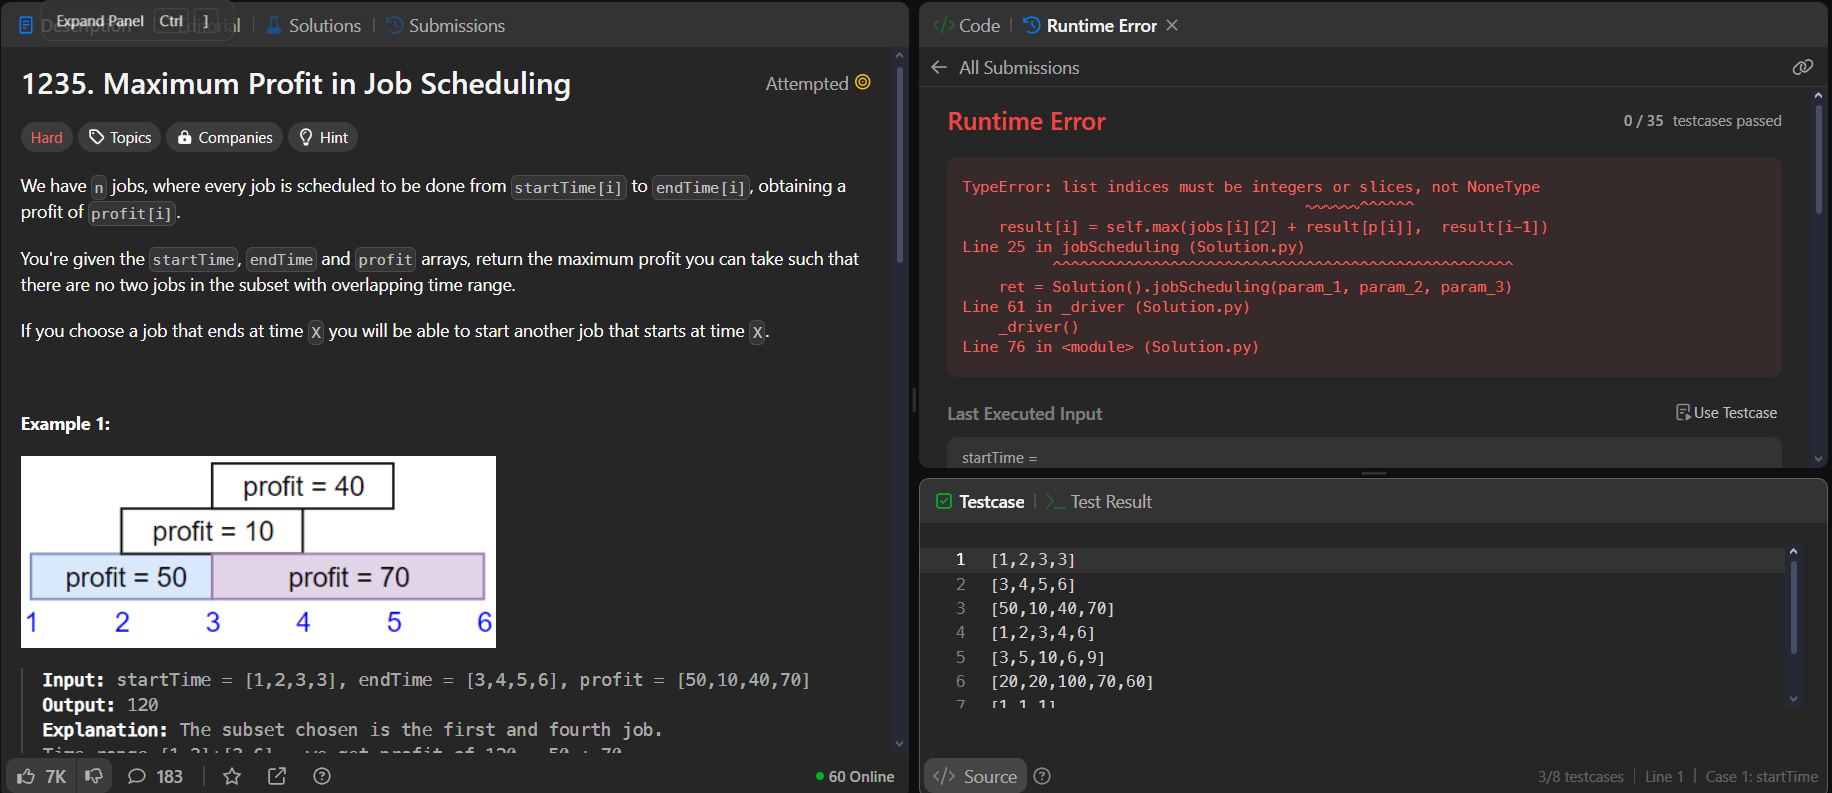
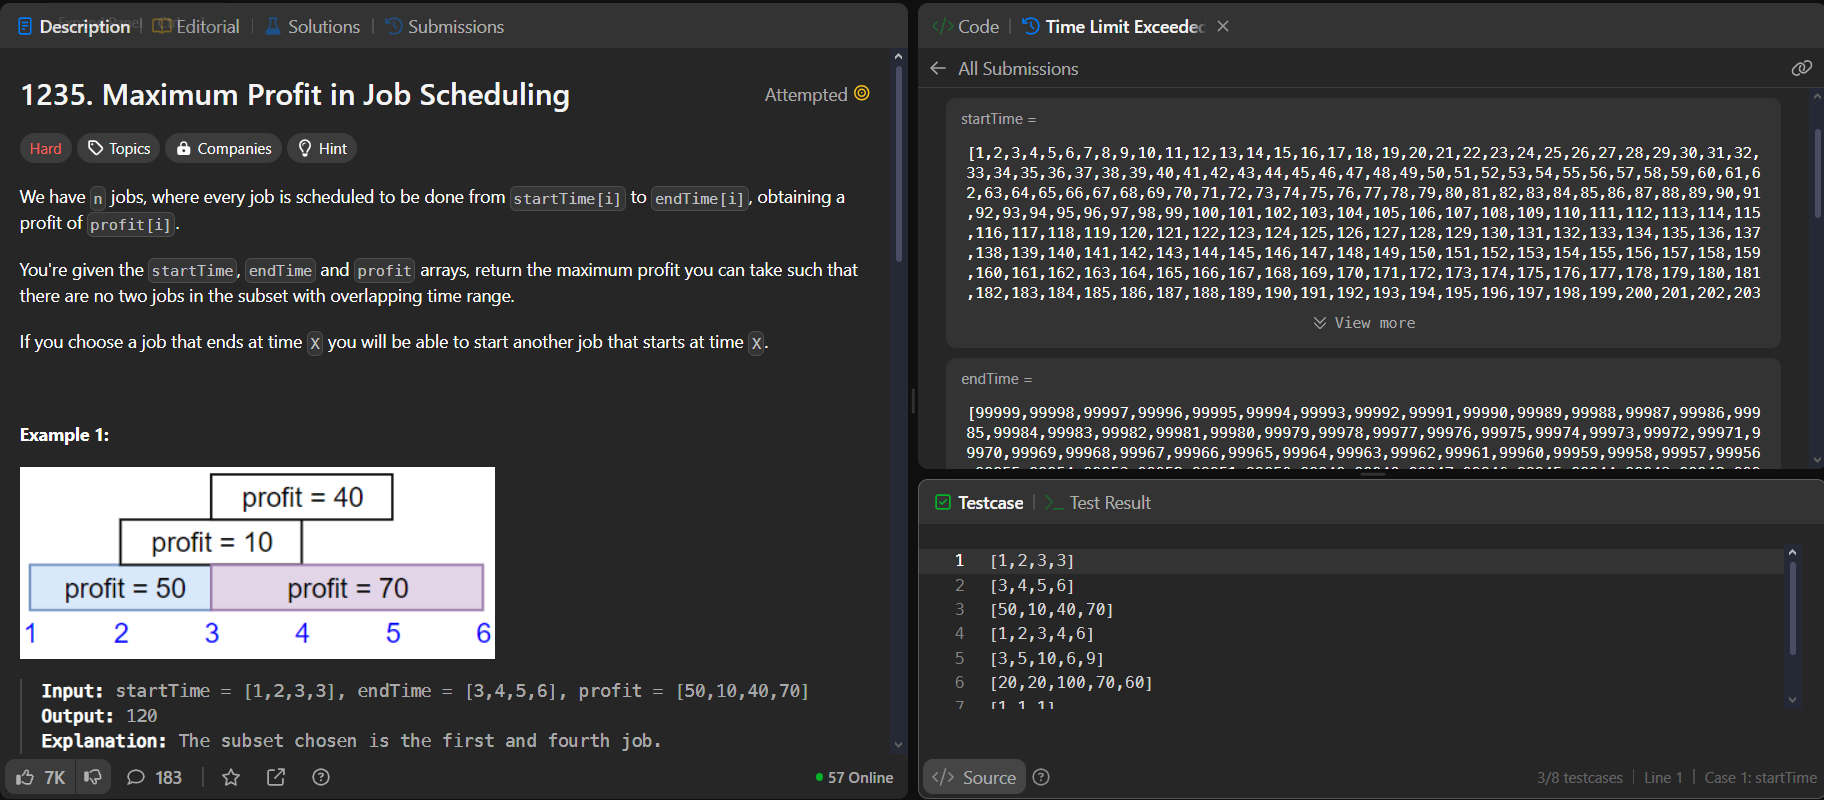
lida corretamente com indices (TLE)

diff --git a/problems/maximum_profit.py b/problems/maximum_profit.py
@@ -1,26 +1,28 @@
 class Solution:
+
     def max(self, take, dontTake):
-        if take >= dontTake:
-            return take
-        else:
-            return dontTake
+        return take if take >= dontTake else dontTake
+    
     def compatible(self, jobs, i):
         for j in range(i-1, -1, -1):
             if jobs[j][1] <= jobs[i][0]:
                 return j
-
+        return -1
+    
     def compatibles(self, jobs):
         p = []
-        for i in range(len(jobs) - 1, -1, -1):
+        for i in range(len(jobs)):
             p.append(self.compatible(jobs, i))
-        return list(reversed(p))
-
+        return p
 
     def jobScheduling(self, startTime: List[int], endTime: List[int], profit: List[int]) -> int:
         jobs = sorted(zip(startTime, endTime, profit), key=lambda x: x[1])
-        result = [-1 for job in jobs]
-        result[0] = 0
+        n = len(jobs)
+        result = [0] * n
         p = self.compatibles(jobs)
-        for i in range(1, len(jobs)):
-            result[i] = self.max(jobs[i][2] + result[p[i]],  result[i-1])
+        for i in range(n):
+            include_profit = jobs[i][2]
+            if p[i] != -1:
+                include_profit += result[p[i]]
+            result[i] = self.max(include_profit, result[i - 1] if i > 0 else 0)
         return result[-1]
